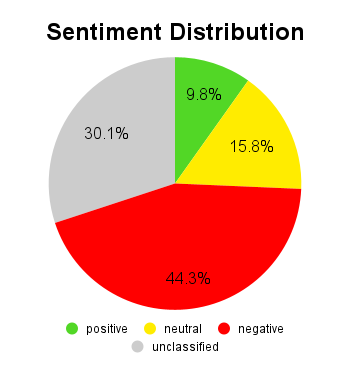
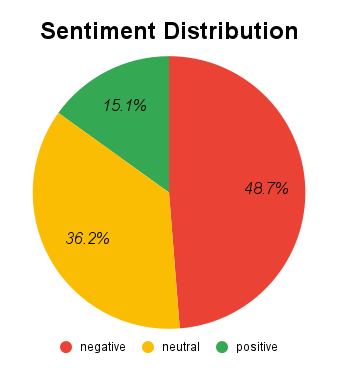
update main program

diff --git a/script/main.py b/script/main.py
@@ -3,6 +3,7 @@ import google.generativeai as genai
 import json
 import time
 import os
+import re
 from dotenv import load_dotenv
 
 # ==== SETUP ====
@@ -10,6 +11,7 @@ CREDENTIALS_PATH = "script/credentials.json"
 SPREADSHEET_URL = "https://docs.google.com/spreadsheets/d/1D0vJKgS5tj38mYEff97mGi8_bWGMG_LBkfIE59HTK-A/edit?usp=sharing"
 SOURCE_SHEET_NAME = "Clean"
 MODEL_NAME = "gemini-2.0-flash"
+DEBUG_MODE = True  # 🔑 False = hanya tulis ke Sheets, True = print reasoning di console
 
 # Load .env
 load_dotenv()
@@ -51,21 +53,35 @@ for i, row in enumerate(rows, start=2):  # start=2 since row 1 is header
     if row.get("sentiment", "").strip():
         continue
 
-    # Prompt context
+    # Prompt dengan konteks (RAG-style knowledge base)
     prompt = f"""
-You are a sentiment classification model for Indonesian text.
-Some comments may include slang, abbreviations, or unique words,
-but classify based on the main meaning.
+You are an AI trained to classify public comments into sentiment categories 
+(positive, neutral, negative) with awareness of sarcasm, slang, and political context.
 
-Your task: provide exactly 1 label from the following list:
-- "positive"
-- "neutral"
-- "negative"
+To improve accuracy, use the following knowledge base of unusual, sarcastic, or foreign phrases: 
+
+[KONTEKS KATA/PHRASE]
+- "Gw takut dia kek Munir" → Kekhawatiran bahwa seseorang akan bernasib seperti Munir (aktivis HAM yang diracun). Nada: serius, negatif.
+- "please god protect all the people who fight for justice" → Permohonan tulus, empati. Nada: positif.
+- "Pasti mau dikasi kerdus isi indomie" → Sarkasme terhadap bantuan yang dianggap remeh. Nada: negatif.
+- "Dulu kita sering lihat petinggi negara makan di warung sederhana" → Sindiran bahwa pejabat sekarang tidak merakyat. Nada: negatif.
+- "Gak sekalian bikin partai??" → Sarkastik, menuduh terlalu politis. Nada: negatif.
+- "terimakasih orang baik" → Bisa tulus (positif) atau sarkas (negatif) tergantung konteks.
+- "Nanti ada yg bilang 'itu hoaks'" → Prediksi sinis, nada negatif.
+- "kok kayak akting ya, muka tegang amat" → Meragukan ketulusan, sindiran. Nada: negatif.
+- "sehat selalu orang2 yg benar2 berjuang" → Dukungan tulus, nada positif.
+
+TASK:
+1. Jika ada komentar yang mengandung frasa di knowledge base, gunakan arti dan konteksnya untuk klasifikasi.
+2. Jika tidak ada, gunakan analisis sentimen standar berdasarkan bahasa alami.
+3. Output dalam format JSON ketat:
+{{
+  "sentiment": "positive|neutral|negative",
+  "reasoning": "short explanation (max 1-2 sentences)"
+}}
+Only respond with JSON, no explanations outside.
 
 Text: "{cleaned_text}"
-
-Answer only in JSON format:
-{{"label": "positive"}}
 """
 
     try:
@@ -76,21 +92,35 @@ Answer only in JSON format:
         print("cleaned_text:", cleaned_text)
         print("raw response:", raw_output)
 
+        # --- CLEANING STEP (Fix triple backticks) ---
+        clean_output = raw_output
+        if clean_output.startswith("```"):
+            clean_output = re.sub(r"^```[a-zA-Z]*\n?", "", clean_output)  # hapus ```json
+            clean_output = re.sub(r"```$", "", clean_output).strip()     # hapus penutup ```
+
         # Safe JSON parsing
         sentiment = "unclassified"
+        reasoning = ""
         try:
-            data = json.loads(raw_output)
-            if "label" in data:
-                sentiment = data["label"].lower().strip()
+            data = json.loads(clean_output)
+            if "sentiment" in data:
+                sentiment = data["sentiment"].lower().strip()
+            if "reasoning" in data:
+                reasoning = data["reasoning"].strip()
         except json.JSONDecodeError:
-            pass
+            # --- Fallback regex parse ---
+            match = re.search(r'"sentiment"\s*:\s*"(\w+)"', clean_output)
+            if match:
+                sentiment = match.group(1).lower().strip()
 
         print("final label:", sentiment)
+        if DEBUG_MODE and reasoning:
+            print("reasoning:", reasoning)
 
-        # Update sheet
+        # Update only sentiment to sheet
         worksheet.update_cell(i, sentiment_idx, sentiment)
 
-        # Avoid rate limit (free tier max 15 req/min)
+        # Avoid rate limit
         time.sleep(5)
 
     except Exception as e:

diff --git a/script/cleaning.py b/script/cleaning.py
@@ -7,8 +7,8 @@ gc = gspread.service_account(filename='script/credentials.json')
 spreadsheet_url = 'https://docs.google.com/spreadsheets/d/1D0vJKgS5tj38mYEff97mGi8_bWGMG_LBkfIE59HTK-A/edit?usp=sharing'
 sh = gc.open_by_url(spreadsheet_url)
 
-# --- Get data from worksheet "Clean" ---
-worksheet = sh.worksheet("Clean")  
+# --- Get data from worksheet "Raw" ---
+worksheet = sh.worksheet("Raw")  
 data = worksheet.get_all_records()
 df = pd.DataFrame(data)
 
